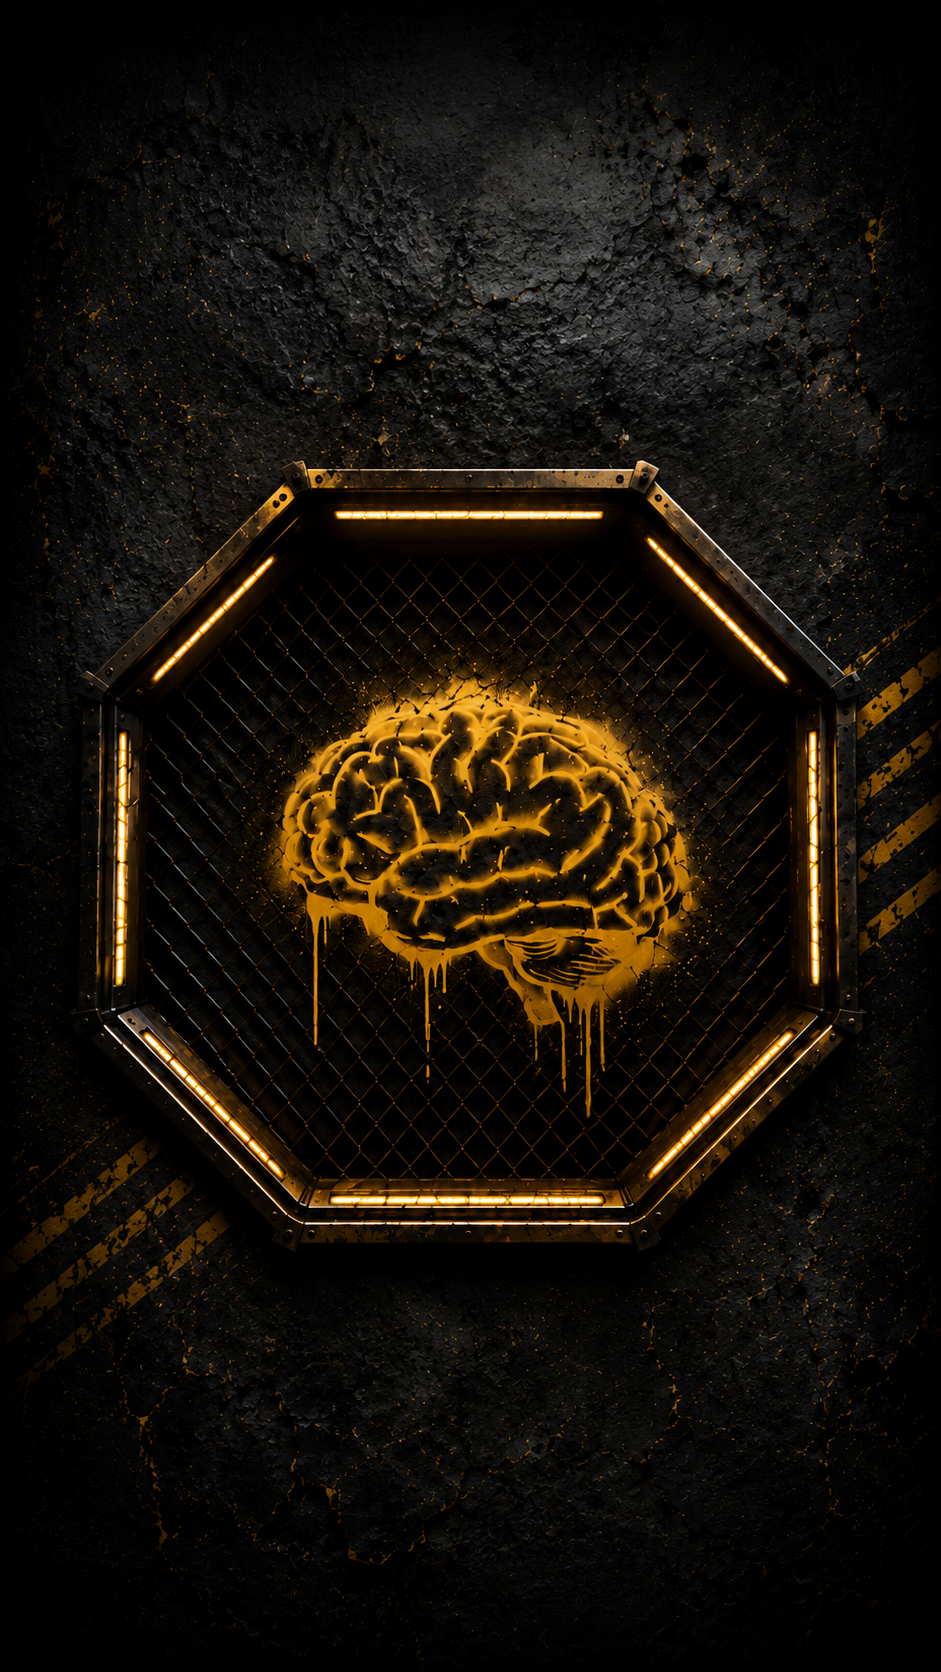
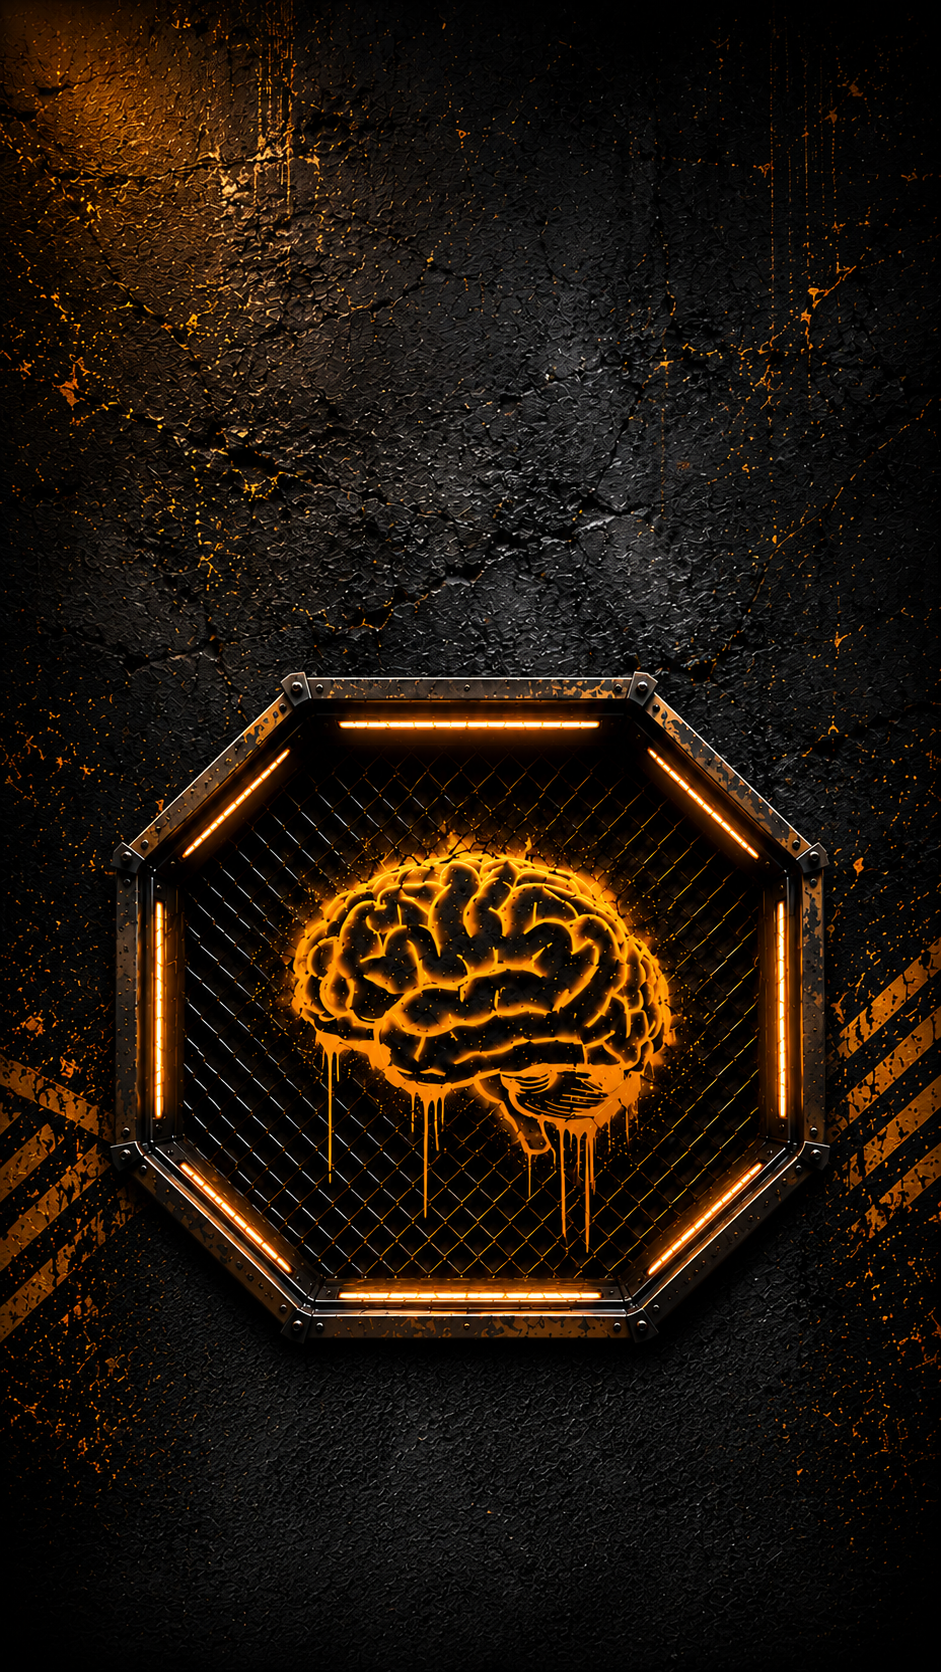
New hero image + reset background position

diff --git a/src/app/page.tsx b/src/app/page.tsx
@@ -39,7 +39,7 @@ export default async function WelcomePage() {
           position: 'absolute', inset: 0, zIndex: 0,
           backgroundImage: `url('/hero-mobile-bg.png')`,
           backgroundSize: 'cover',
-          backgroundPosition: 'center 82%',
+          backgroundPosition: 'center top',
           filter: 'saturate(1.1) contrast(1.05) brightness(0.9)',
         }}/>
 
@@ -119,7 +119,7 @@ export default async function WelcomePage() {
           </div>
 
           {/* ── Wordmark — centered, matches reference ──────────────────── */}
-          <div style={{ marginTop: 64, textAlign: 'center' }}>
+          <div style={{ marginTop: 24, textAlign: 'center' }}>
             {/* CAGE — amber */}
             <div style={{
               fontFamily: 'var(--font-anton)',